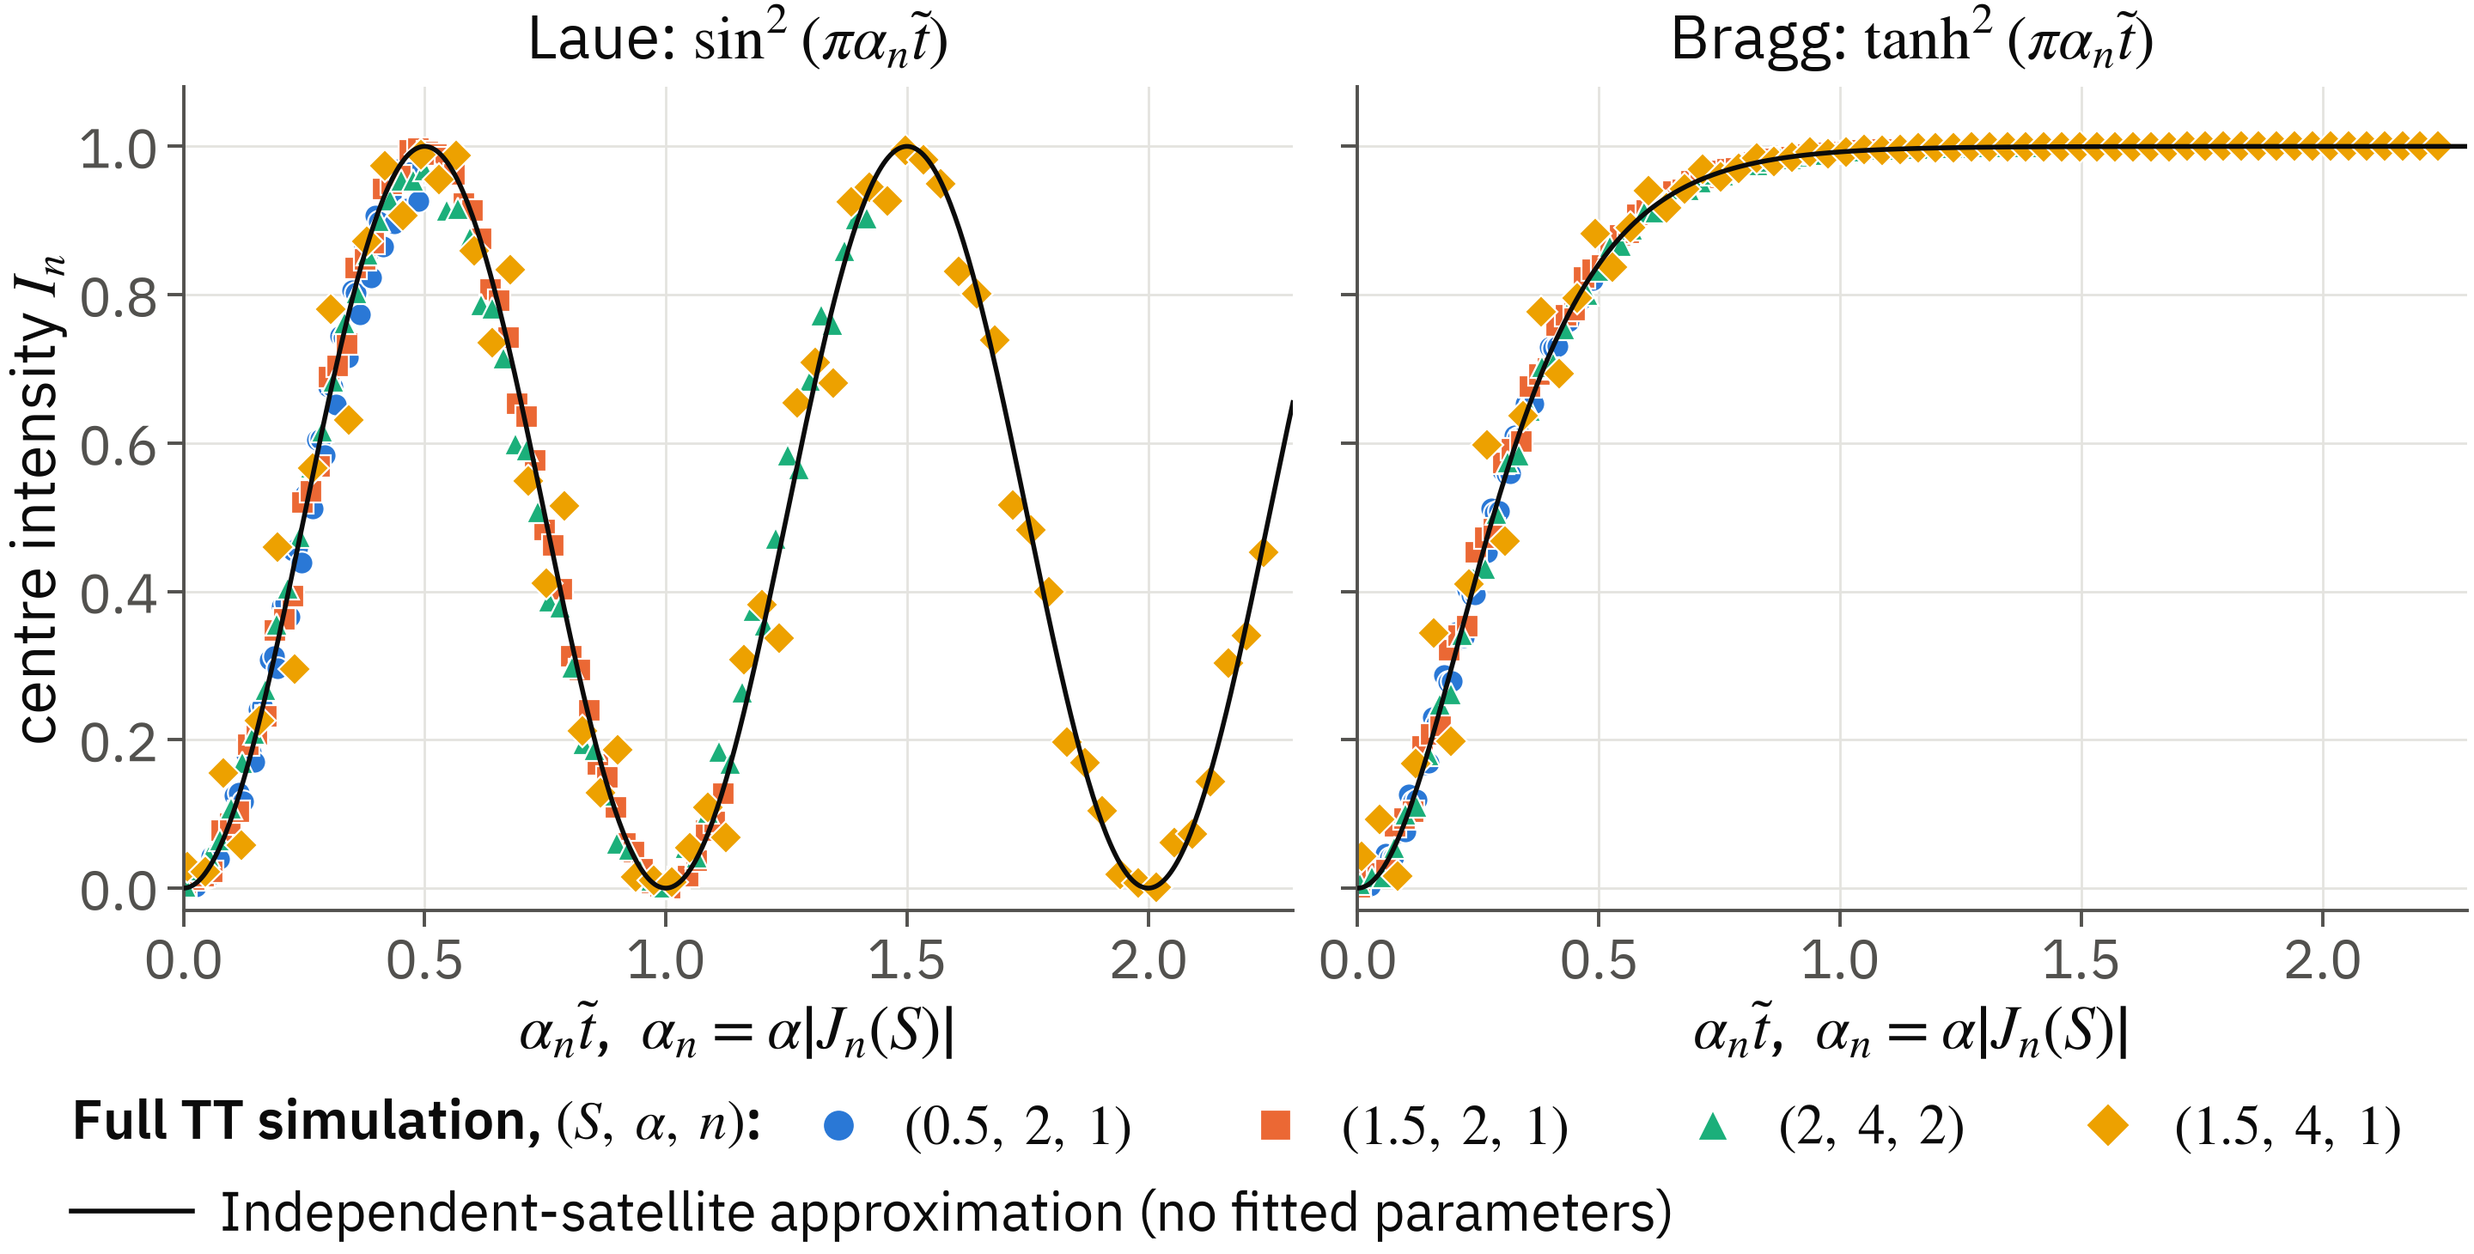
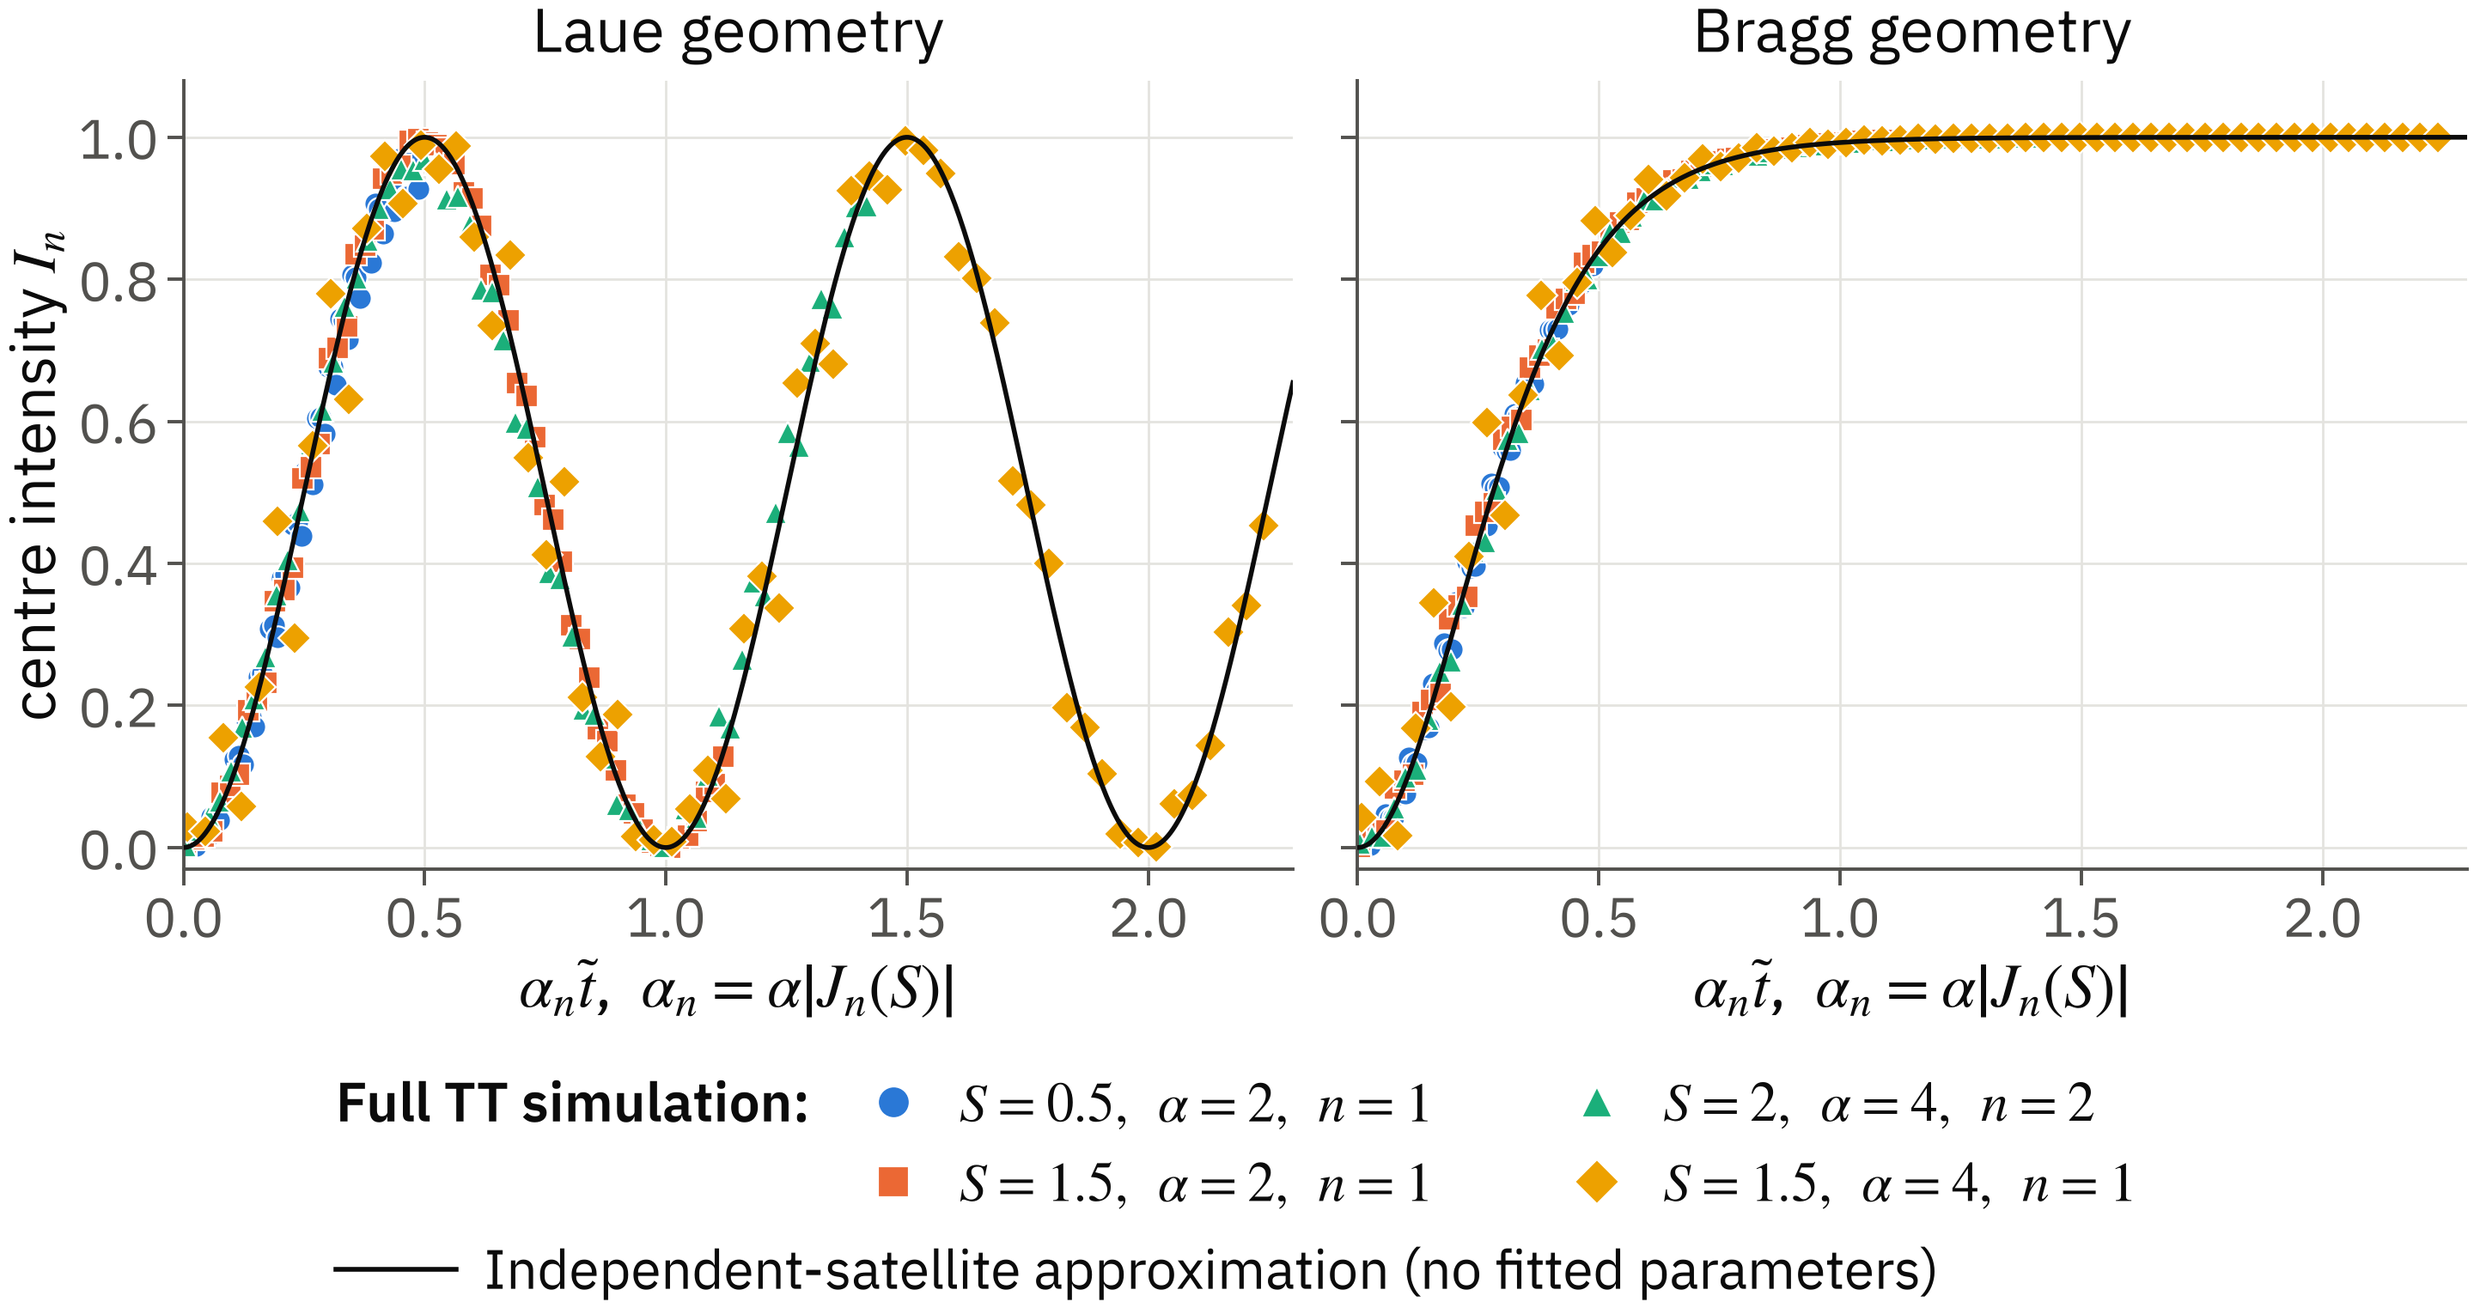
Poster: state model scope precisely and simplify result labels
Accuracy (checked against src/tratt/core.py and e67_overshoot.json):
- Method: the two-amplitude TT system is introduced as the Laue form; Bragg
  stays with its Riccati equation.
- Method: eta described as dimensionless (deviation parameter scaled by L).
- f7: heatmap titled 'Parameter scan, reduced coupling model'; caption
  separates the 11,211-point reduced-model scan from the full-TT check of
  cases A-C (map_method in e67_overshoot.json).

Labels and layout:
- f7 traces: A/B/C titled monotonic growth / finite overshoot / near-zero
  steady state in the colour of their map marker, with S, T_rise/t_tr and
  peak/steady values from the json; y-axis headroom to 1.0 for the label.
- f1: panel titles 'Laue geometry' / 'Bragg geometry'; key with explicit
  S, alpha, n labels (2 x 2) and the approximation on its own row; caption
  keeps only the deviation statement.
- Result 1 retitled 'Satellite Formation Dynamics'.
- Head rule: one light line across the full panel width, orange at the
  right end.
- Flow diagram quieter (lighter boxes, thinner accents).
- Conclusions 66/34, key sentence without the 'Main implication' label.

diff --git a/explore/make_poster_figs.py b/explore/make_poster_figs.py
@@ -36,8 +36,7 @@ FONT = "IBM Plex Sans"   # same face as poster/build.py (f1 still carries Source
 
 FIG_W = 14.4          # inches = poster card inner width (~366 mm)
 INTRO_W = 12.5        # inches = left column of the introduction band (~317 mm)
-F1_H, F7_H = 7.3, 8.5  # heights of the two result figures (inches), set by the results band
-F1_KEY = 0.15         # fraction of the f1 height kept for its shared two-row key
+F1_H, F7_H = 7.65, 8.5  # heights of the two result figures (inches), set by the results band
 BIG, SMALL = 26, 23   # printed pt; smallest label 21 pt (SMALL - 2), readable at ~1.5 m on A0
 INK, INK2, GRID = "#0b0b0b", "#52514e", "#e4e3df"
 BLUE, ORANGE, AQUA, YELLOW = "#2a78d6", "#eb6834", "#1baf7a", "#eda100"
@@ -184,38 +183,44 @@ def f1():
         laue = np.array([M.centre(a, S, n, t, "laue") for S, a, n in M.CASES])
         bragg = np.array([M.centre(a, S, n, t, "bragg") for S, a, n in M.CASES])
         np.savez(cache, t=t, cases=np.array(M.CASES), laue=laue, bragg=bragg)
+    row = SMALL * 1.6 / 72 / F1_H                    # one key row, as a fraction of the figure height
+    key = 3 * row + 0.02                              # key strip under both panels: 2 case rows + the law
     fig, ax = plt.subplots(1, 2, figsize=(FIG_W, F1_H), constrained_layout=True, sharey=True)
-    fig.get_layout_engine().set(rect=(0, F1_KEY, 1, 1 - F1_KEY), w_pad=0.04, h_pad=0.02)  # key strip below
+    fig.get_layout_engine().set(rect=(0, key, 1, 1 - key), w_pad=0.04, h_pad=0.02)
     s = np.linspace(0, 2.3, 500)
+    # the laws themselves are written in the panel text, so the titles only name the geometry
     for a, data, law, title in (
-            (ax[0], laue, np.sin(np.pi * s) ** 2, r"Laue: $\sin^2(\pi\alpha_n\tilde t)$"),
-            (ax[1], bragg, np.tanh(np.pi * s) ** 2, r"Bragg: $\tanh^2(\pi\alpha_n\tilde t)$")):
+            (ax[0], laue, np.sin(np.pi * s) ** 2, "Laue geometry"),
+            (ax[1], bragg, np.tanh(np.pi * s) ** 2, "Bragg geometry")):
         # the law is drawn over the TT markers so the comparison stays visible where they crowd
         a.plot(s, law, color=INK, lw=2.0, zorder=3,
                label="Independent-satellite approximation (no fitted parameters)")
         for (S, al, n), I, c, m in zip(M.CASES, data, (BLUE, ORANGE, AQUA, YELLOW), M.MARK):
             a.plot(al * abs(jv(n, S)) * t, I, m, color=c, mec="white", mew=0.8, ms=9.5, ls="none", zorder=2,
-                   label=rf"$({S:g},\,{al:g},\,{n})$")
+                   label=rf"$S={S:g},\ \alpha={al:g},\ n={n}$")
         a.set(xlim=(0, 2.3), ylim=(-0.03, 1.08), title=title,
               xlabel=r"$\alpha_n\tilde t$,  $\alpha_n=\alpha\left|J_n(S)\right|$")
     ax[0].set_ylabel(r"centre intensity $I_n$")
     ax[1].tick_params(labelleft=False)
-    # Shared key under both panels, two rows: the simulated cases, then the curve they are compared with.
+    # Shared key under both panels: the simulated cases (2 x 2, after their lead), then the curve
+    # they are compared with on a row of its own.
     h, lab = ax[1].get_legend_handles_labels()
-    sim = fig.legend(h[1:], lab[1:], ncol=4, frameon=False, loc="lower left", bbox_to_anchor=(0, 0.52 * F1_KEY),
-                     handletextpad=0.2, columnspacing=1.6, markerscale=1.4, borderaxespad=0, borderpad=0)
-    law = fig.legend(h[:1], lab[:1], frameon=False, loc="lower left", bbox_to_anchor=(0, 0.06 * F1_KEY),
+    sim = fig.legend(h[1:], lab[1:], ncol=2, frameon=False, loc="lower left", bbox_to_anchor=(0, 0.01 + row),
+                     handletextpad=0.2, columnspacing=2.0, labelspacing=0.45, markerscale=1.4,
+                     borderaxespad=0, borderpad=0)
+    law = fig.legend(h[:1], lab[:1], frameon=False, loc="lower left", bbox_to_anchor=(0, 0.01),
                      handlelength=2.2, handletextpad=0.5, borderaxespad=0, borderpad=0)
     fig.canvas.draw()
-    lead = r"Full TT simulation, $(S,\,\alpha,\,n)$:"
+    lead = "Full TT simulation:"
     probe = fig.text(0, 0, lead, fontsize=SMALL, fontweight="semibold")
     wl = probe.get_window_extent().width / fig.bbox.width
     probe.remove()
-    ws = sim.get_window_extent().width / fig.bbox.width
-    x0 = (1 - wl - 0.008 - ws) / 2                     # centre the labelled row under the panels
-    fig.text(x0, 0.52 * F1_KEY + 0.004, lead, fontsize=SMALL, fontweight="semibold", va="bottom")
-    sim.set_bbox_to_anchor((x0 + wl + 0.008, 0.52 * F1_KEY), transform=fig.transFigure)
-    law.set_bbox_to_anchor((x0, 0.06 * F1_KEY), transform=fig.transFigure)   # second row under the lead
+    box = sim.get_window_extent()
+    ws, top = box.width / fig.bbox.width, box.y1 / fig.bbox.height
+    x0 = (1 - wl - 0.012 - ws) / 2                     # centre the labelled block under the panels
+    fig.text(x0, top, lead, fontsize=SMALL, fontweight="semibold", va="top")
+    sim.set_bbox_to_anchor((x0 + wl + 0.012, 0.01 + row), transform=fig.transFigure)
+    law.set_bbox_to_anchor((x0, 0.01), transform=fig.transFigure)
     finish(fig, ax, "f1_collapse")
     for name, data, law in (("Laue", laue, lambda x: np.sin(np.pi * x) ** 2),
                             ("Bragg", bragg, lambda x: np.tanh(np.pi * x) ** 2)):
@@ -378,11 +383,18 @@ def f7():
                        cmap="YlOrRd", vmin=0)
     cb = fig.colorbar(im, ax=ax, pad=0.02, fraction=0.045)
     cb.set_label(r"overshoot $\Delta I$")
+    # the map is the reduced coupling law over the scanned grid; only A-C are checked against full TT
     ax.set(xlabel=r"final sound amplitude $S$", ylabel=r"rise time $T_{rise}/t_{tr}$",
-           title=r"Linear turn-on, then held: first satellite ($n=1$)")
+           title=r"Parameter scan, reduced coupling model: first satellite ($n=1$)")
+
+    def num(v):
+        if v >= 0.01:
+            return f"{v:.2f}"
+        m, e = f"{v:.1e}".split("e")
+        return rf"${m}\times10^{{{int(e)}}}$"
+
     for case, color, label in zip(summary["cases"], (BLUE, ORANGE, AQUA),
-                                  ("A: monotonic", r"B: peak $1.69\times$ final",
-                                   r"C: $0.53\rightarrow1.3\times10^{-4}$")):
+                                  ("A: monotonic growth", "B: finite overshoot", "C: near-zero steady state")):
         letter, S, rise = case["label"], case["S"], case["rise"]
         ax.plot(S, rise, "o", color=color, mec="white", mew=2, ms=13)
         ax.annotate(letter, (S, rise), xytext=(9, 9), textcoords="offset points",
@@ -400,9 +412,14 @@ def f7():
                                        shrinkA=0, shrinkB=0))
             a.text(tb + 0.08, case["steady"] + 0.3 * (float(data["B_I"][k]) - case["steady"]), r"$\Delta I$",
                    fontsize=SMALL, va="center", color=INK)
-        a.set(xlabel=r"time / $t_{tr}$", ylim=(-0.025, 0.8), title=label)
-        a.text(0.04, 0.94, f"S={S:g}, rise={rise:g}", transform=a.transAxes,
-               fontsize=SMALL - 2, va="top", bbox=dict(facecolor="white", edgecolor="none", pad=2))
+        a.set(xlabel=r"time / $t_{tr}$", ylim=(-0.025, 1.0))   # headroom for the two-line case label
+        a.set_title(label, color=color, fontsize=SMALL, fontweight="semibold")   # colour = map marker
+        peak, steady = case["peak"], case["steady"]
+        values = (f"peak = steady = {num(steady)}" if peak - steady < 1e-9
+                  else f"peak {num(peak)}, steady {num(steady)}")
+        a.text(0.04, 0.95, rf"$S={S:g}$, $T_{{rise}}/t_{{tr}}={rise:g}$" + "\n" + values, transform=a.transAxes,
+               fontsize=SMALL - 2, va="top", linespacing=1.25,
+               bbox=dict(facecolor="white", edgecolor="none", pad=2))
         if letter == "A":
             a.set_ylabel("satellite intensity")
         else:

diff --git a/poster/build.py b/poster/build.py
@@ -100,7 +100,7 @@ SPEC = dict(
     stat_pt=36, stat_label_pt=23, eq_pt=30, min_pt=23,
     leading=1.3, para_gap=6, side_text=0.64, panel_gap=8, fig_gap=4, spread_max=8,
     navy="#0f2a3a", accent="#e8743b", page="#ffffff", card="#ffffff", edge="#c3c9ce", key="#fbf1d9",
-    ink="#25282b", ink2="#454c54", tint="#f4f6f7", rule="#7d8d98", rule_w=0.4, key_soft="#fcf5e6",
+    ink="#25282b", ink2="#454c54", tint="#f4f6f7", rule="#a9b2b9", rule_w=0.4, key_soft="#fcf5e6",
     # page zones behind whole bands (full width, not cards), a weak white / tint rhythm:
     # introduction white, method light blue-grey, results white (figures sit on the page), conclusions
     # a soft neutral
@@ -356,12 +356,12 @@ def flow_diagram(P, it, x, y, w, draw=True):
     if draw:
         for i, ps in enumerate(parts):
             bx = x + i * (bw + aw)
-            P.box(bx, y, bw, h, s["key"], r=0, z=2)
-            P.box(bx, y, bw, 1.4, s["accent"], r=0, z=2)
+            P.box(bx, y, bw, h, s["key_soft"], r=0, z=2)
+            P.box(bx, y, bw, 0.6, s["accent"], r=0, z=2)
             block(ps, bx, y + (h - block(ps, 0, 0, False)) / 2, True)
             if i < n - 1:
                 P.ax.annotate("", xy=(bx + bw + aw - 0.8, y + h / 2), xytext=(bx + bw + 0.8, y + h / 2),
-                              arrowprops=dict(arrowstyle="-|>", color=s["accent"], lw=2.6, mutation_scale=20),
+                              arrowprops=dict(arrowstyle="-|>", color=s["accent"], lw=1.8, mutation_scale=16),
                               zorder=3)
         ly = y + h + 5                                      # loop: next time step
         P.ax.plot([x + w - bw / 2, x + w - bw / 2, x + bw / 2], [y + h, ly, ly], color=s["ink2"], lw=1.8,
@@ -444,8 +444,8 @@ def head(P, num, title, x, y0, w):
     P.ax.text(x + sq / 2, y0 + 4 + sq / 2, str(num), fontsize=23.2, color="white", family=FONT,
               fontweight="bold", ha="center", va="center", zorder=4)
     P.flow(title, x + sq + 4.5, y0 + 0.5, w - sq - 4.5, s["head_pt"], s["ink"], weight="medium")
-    P.box(x, y0 + 24, w * 0.62, s["rule_w"], s["rule"], r=0, z=3)
-    P.box(x + w * 0.635, y0 + 24, w * 0.085, s["rule_w"], s["accent"], r=0, z=3)
+    P.box(x, y0 + 24, w * 0.88, s["rule_w"], s["rule"], r=0, z=3)
+    P.box(x + w * 0.88, y0 + 24, w * 0.12, s["rule_w"], s["accent"], r=0, z=3)
 
 
 def fit(P, path, x, y, w, h, align="right"):

diff --git a/poster/poster.md b/poster/poster.md
@@ -40,11 +40,11 @@ conclusions. Numbers follow notes/tasks/poster_facts.md.
 
 [[ 0.5
 
-**1 Two-beam diffraction.** The X-ray field near a Bragg reflection consists of the transmitted wave $D_0$ and the diffracted wave $D_h$, which exchange intensity with depth $\zeta=z/L\in[0,1]$. They obey the coupled Takagi–Taupin (TT) equations: {E0}
+**1 Two-beam diffraction.** The X-ray field near a Bragg reflection consists of the transmitted wave $D_0$ and the diffracted wave $D_h$, which exchange intensity with depth $\zeta=z/L\in[0,1]$. In Laue geometry they obey the coupled Takagi–Taupin (TT) equations: {E0}
 
 $$ $dD_0/d\zeta = i\pi\alpha\,e^{+i\phi}D_h,\qquad dD_h/d\zeta = i\pi\alpha\,e^{-i\phi}D_0 + i\eta D_h$ {E0}
 
-$\pi\alpha$ couples the beams, $i\eta D_h$ is the angular detuning ($\eta$ in units of $1/L$), and the lattice displacement enters only as the phase $e^{\pm i\phi}$ of the coupling. {E0}
+$\pi\alpha$ couples the beams, $i\eta D_h$ is the angular detuning ($\eta$: dimensionless, scaled by $L$), and the lattice displacement enters only as the phase $e^{\pm i\phi}$ of the coupling. {E0}
 
 **2 Travelling acoustic deformation,** with $\tilde t=t/t_{tr}$: {E0}
 
@@ -73,7 +73,7 @@ $$ $dR/d\zeta=-i\pi\alpha\,e^{-i\phi}-i\eta R-i\pi\alpha\,e^{+i\phi}R^2,\qquad R
 
 @pair
 
-## Numerical Simulation of Acoustic Satellite Formation
+## Satellite Formation Dynamics
 
 ~ step | **Sudden acoustic onset:** $A(s)=H(s)$, $s=\tilde t-\zeta$ {E0}
 
@@ -83,7 +83,7 @@ $$ $I_n=\sin^2(\pi\alpha_n\tilde t)$ (Laue), $\qquad I_n=\tanh^2(\pi\alpha_n\til
 
 The formation time $\tau_n=\Lambda_P/(v_s\left|J_n(S)\right|)$ is independent of $L$, and the order follows $\left|J_n(S)\right|$ rather than $n$ (at $S=3$: $n=2,1,3$). {E1}{E6}
 
-![Markers: full TT simulations; solid lines: independent-satellite approximation, without fitting parameters. Deviations reflect the approximation rather than numerical solver error.](figures/poster/f1_collapse.png){E1}{E9}{E19}{E26}
+![Deviations of the TT markers from the lines reflect the approximation, not numerical solver error.](figures/poster/f1_collapse.png){E1}{E9}{E19}{E26}
 
 ## Transient Intensity Overshoot
 
@@ -95,17 +95,17 @@ $$ $\Theta_n(\tilde t)=\int_0^1 J_n(S\,A(\tilde t-\zeta))\,d\zeta,\qquad I_n\app
 
 Overshoot: $\Delta I=I_{max}-I_{steady}$ in incident-intensity units, for the first Laue satellite at $L/\Lambda_P=0.5$, $0.5\leq S\leq6$, $0.05\leq T_{rise}/t_{tr}\leq4$. {E67}
 
-![Top: $\Delta I$ map from $\Theta_n$ (11,211 parameter sets; maximum scanned value 0.603). Bottom: A–C time traces (lines: reduced law; dots: full TT; dashed: steady state). Overshoot can remain strong when the final Bessel coupling is small.](figures/poster/f7_overshoot.png){E15}{E28}{E67}
+![Top: $\Delta I$ from the reduced coupling model $\Theta_n$ over 11,211 parameter sets (maximum 0.603). Bottom: cases A–C, reduced model (lines) checked against full TT (dots); dashed: steady state. Overshoot can remain strong when the final Bessel coupling is small.](figures/poster/f7_overshoot.png){E15}{E28}{E67}
 
 ## Conclusions
 
-[[ 0.6 c
+[[ 0.66 c
 
 We calculated the formation of acoustic diffraction satellites while an acoustic wavefront propagates through the crystal, using the two-beam Takagi–Taupin equations. The simulations show satellite-dependent formation times, $\tau_n\propto1/\left|J_n(S)\right|$, and a transient intensity overshoot for finite acoustic rise times. {E0}{E1}{E9}{E67}
 
-|| 0.4 c
+|| 0.34 c
 
-> **Main implication.** The steady-state satellite intensity alone does not determine its transient evolution. {E28}{E67}
+> Steady-state satellite intensities alone do not determine their transient evolution. {E28}{E67}
 
 ]]
 
